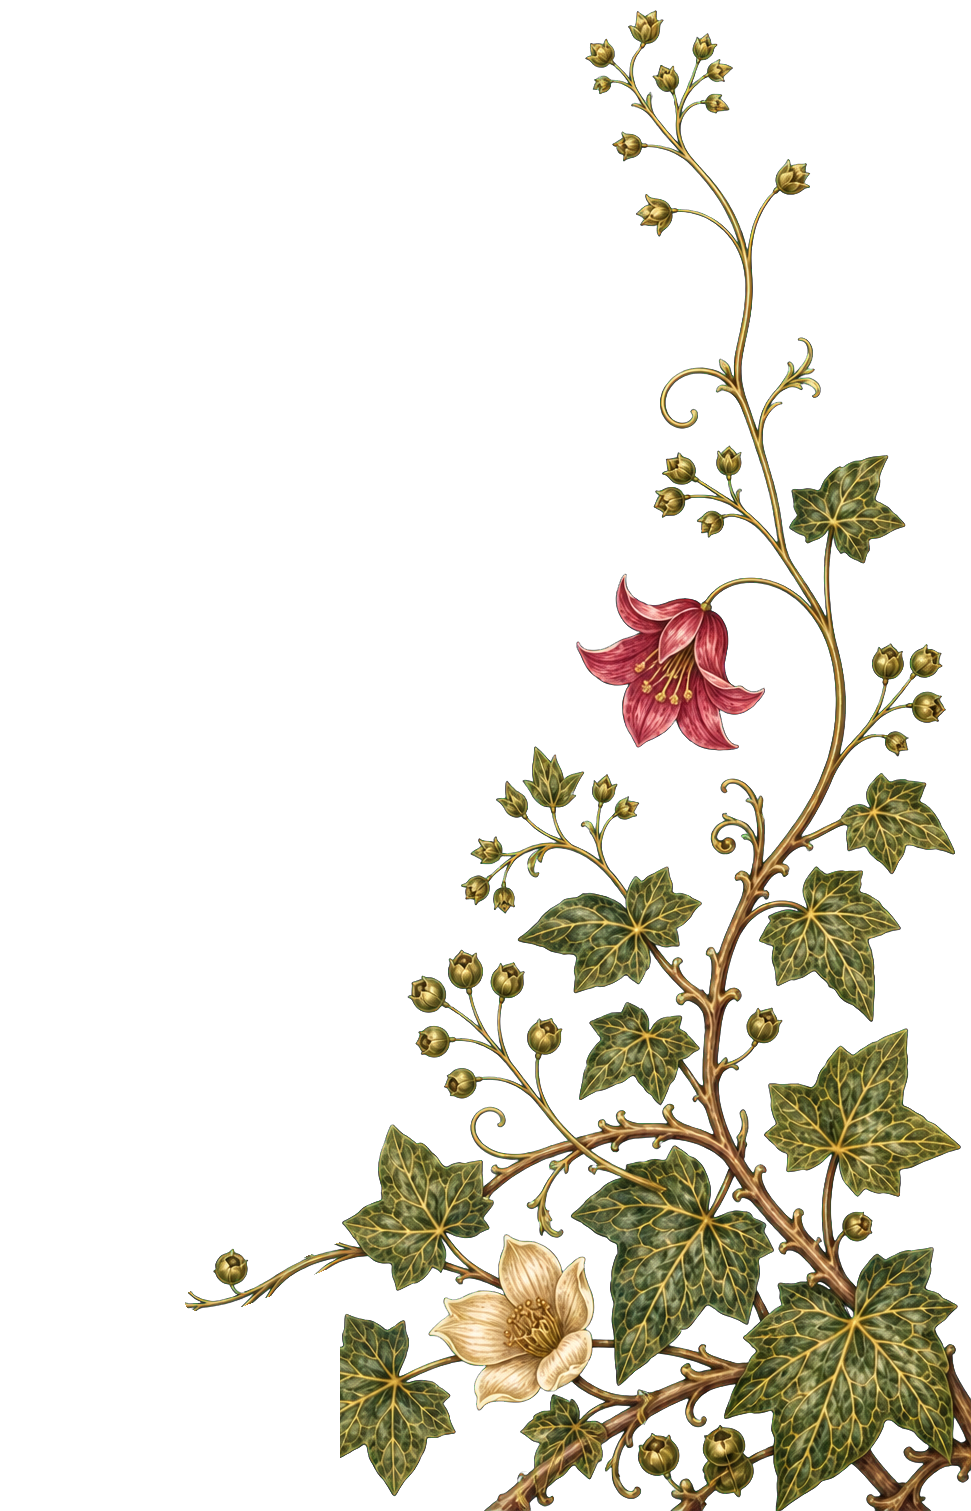
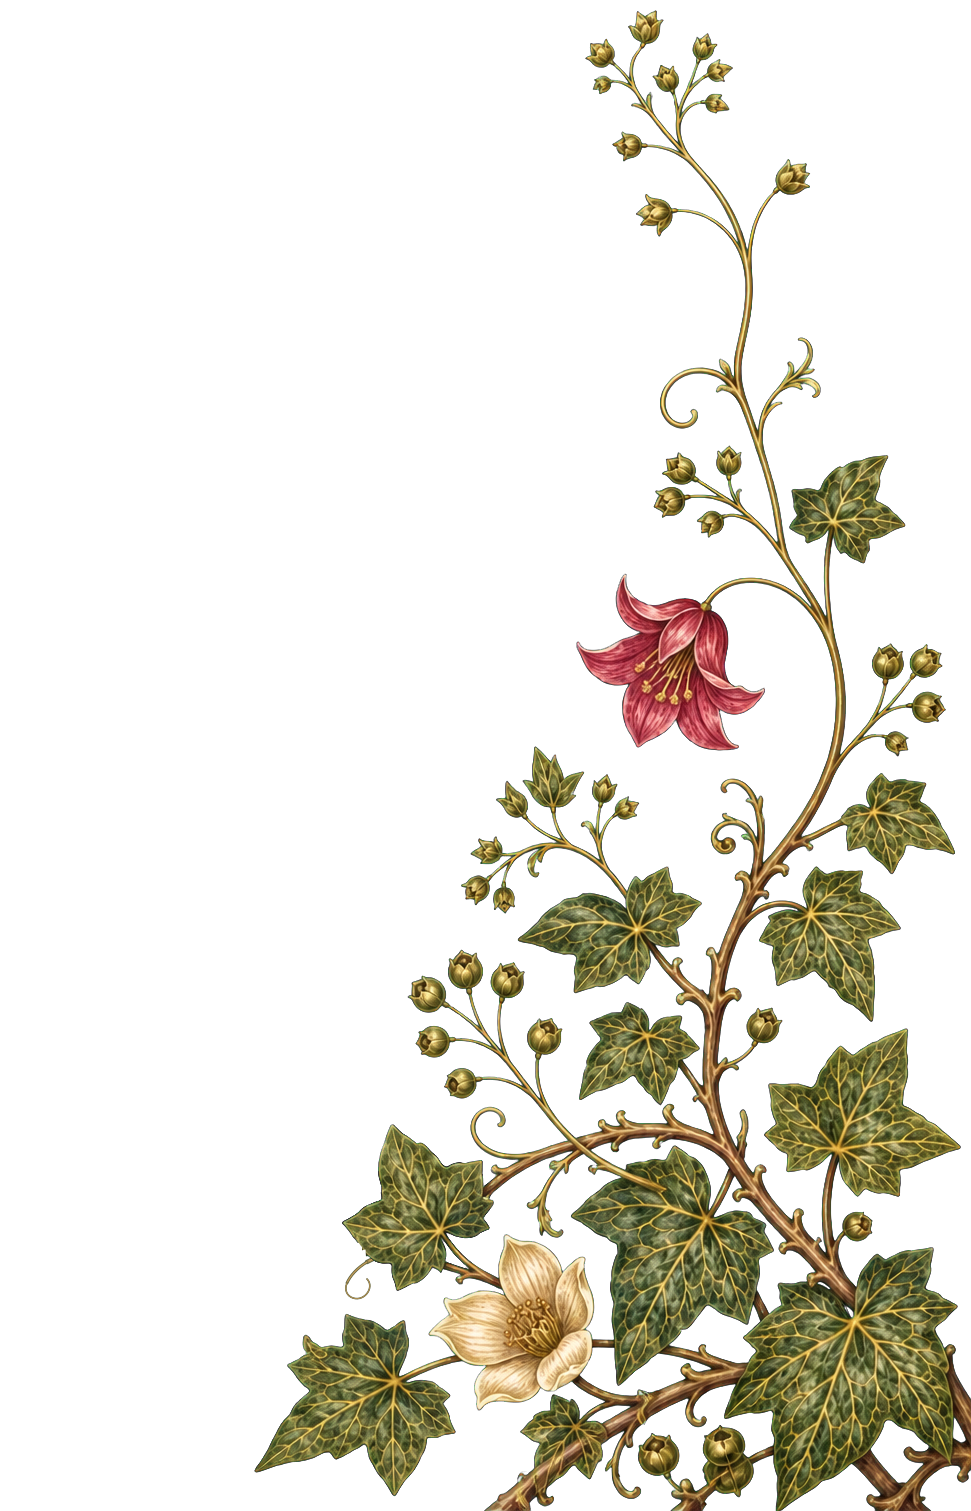
Refine lower botanical tendril

Changed region(s): [[0.2472, 0.8709, 0.3708, 0.9954], [0.1854, 0.8087, 0.309, 0.8709], [0.309, 0.8087, 0.3708, 0.8398]]

diff --git a/index.html b/index.html
@@ -476,14 +476,14 @@
         bottom: 6px; right: -6px;
         width: clamp(340px, calc((100vw - var(--maxw)) / 2 + 40px), 410px);
         aspect-ratio: 971 / 1511;
-        background-image: url("assets/botanical-frame/hybrid-botanical-lower-right-light-v3.webp?v=3");
+        background-image: url("assets/botanical-frame/hybrid-botanical-lower-right-light-v3.webp?v=4");
       }
       .hero-lower { display: none !important; }
       html[data-theme="dark"] .botanical-frame__upper-left {
         background-image: url("assets/botanical-frame/hybrid-botanical-upper-left-dark.webp?v=1");
       }
       html[data-theme="dark"] .botanical-frame__lower-right {
-        background-image: url("assets/botanical-frame/hybrid-botanical-lower-right-dark-v3.webp?v=3");
+        background-image: url("assets/botanical-frame/hybrid-botanical-lower-right-dark-v3.webp?v=4");
       }
     }
     @media (min-width: 1680px) and (prefers-color-scheme: dark) {
@@ -491,7 +491,7 @@
         background-image: url("assets/botanical-frame/hybrid-botanical-upper-left-dark.webp?v=1");
       }
       html:not([data-theme]) .botanical-frame__lower-right {
-        background-image: url("assets/botanical-frame/hybrid-botanical-lower-right-dark-v3.webp?v=3");
+        background-image: url("assets/botanical-frame/hybrid-botanical-lower-right-dark-v3.webp?v=4");
       }
     }
 
